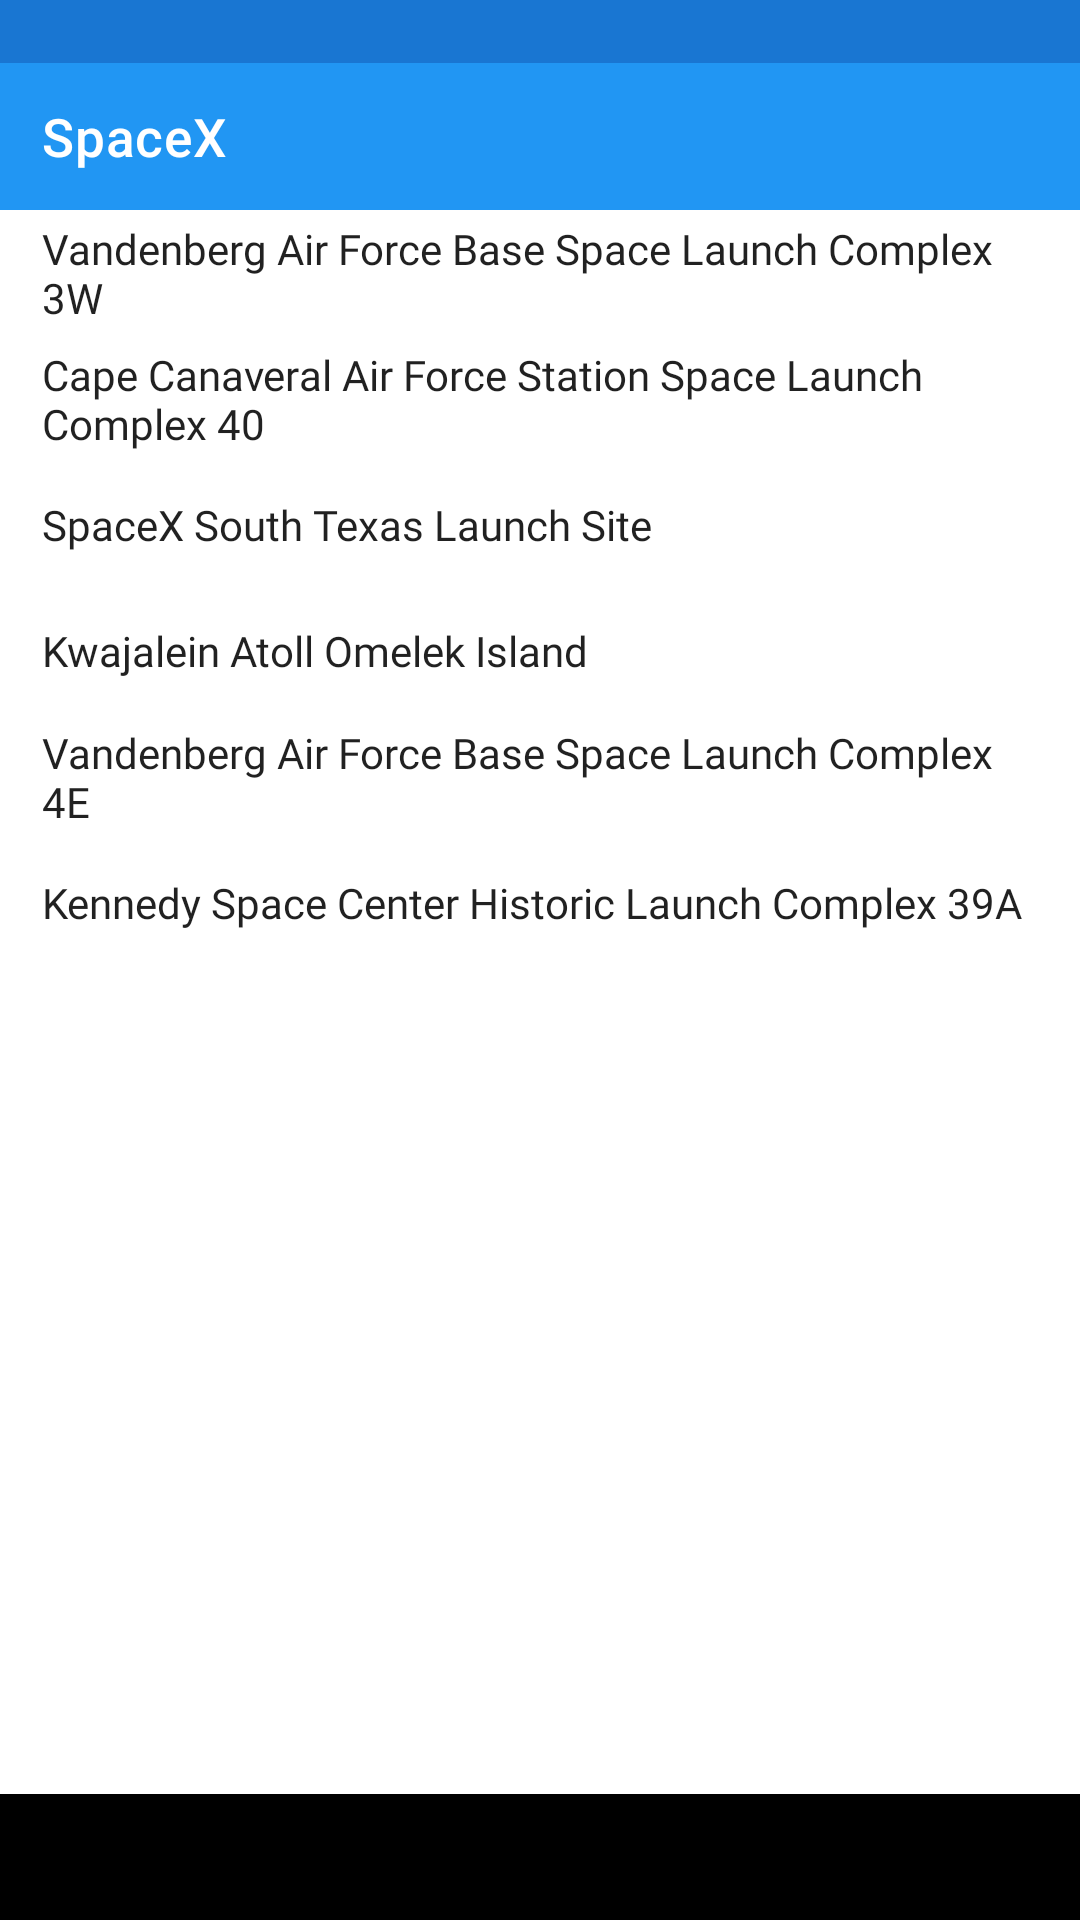
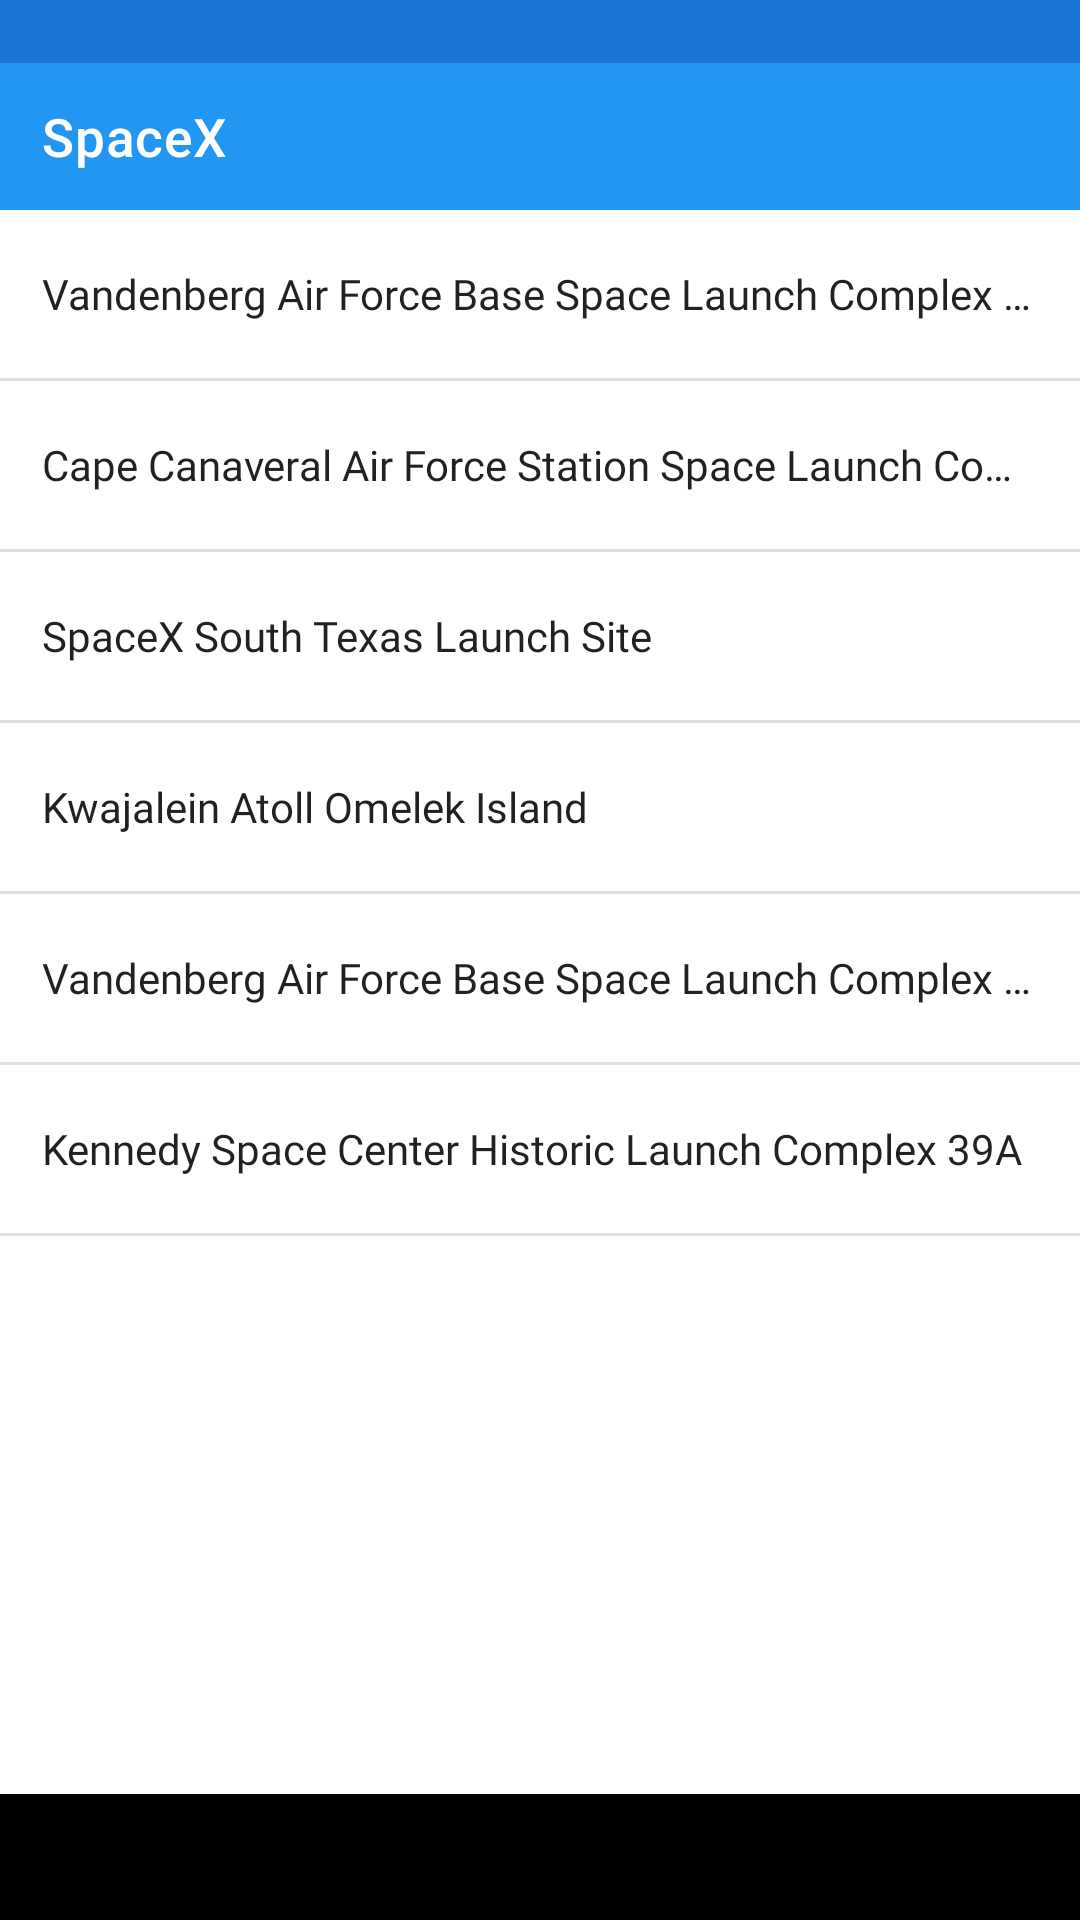
Improve list item layout UI
* single line with ellipsize
* divider
* ripple effect

diff --git a/app/src/main/java/pl/lgawin/demo/spacex/ui/list/LaunchpadListAdapter.kt b/app/src/main/java/pl/lgawin/demo/spacex/ui/list/LaunchpadListAdapter.kt
@@ -1,51 +1,16 @@
 package pl.lgawin.demo.spacex.ui.list
 
-import android.view.LayoutInflater
-import android.view.View
 import android.view.ViewGroup
-import android.widget.TextView
-import androidx.recyclerview.widget.DiffUtil
 import androidx.recyclerview.widget.ListAdapter
-import androidx.recyclerview.widget.RecyclerView
 import pl.lgawin.demo.spacex.domain.LaunchpadModel
 
 class LaunchpadListAdapter(private val onClick: (LaunchpadModel) -> Unit) :
-    ListAdapter<LaunchpadModel, SimpleLaunchpadViewHolder>(LaunchpadDiffCallback()) {
+    ListAdapter<LaunchpadModel, LaunchpadViewHolder>(LaunchpadModelDiffCallback()) {
 
-    override fun onCreateViewHolder(parent: ViewGroup, viewType: Int): SimpleLaunchpadViewHolder =
-        SimpleLaunchpadViewHolder.inflateIn(parent).apply {
-            clickListener = onClick
-        }
+    override fun onCreateViewHolder(parent: ViewGroup, viewType: Int): LaunchpadViewHolder =
+        LaunchpadViewHolder(parent).apply { clickListener = onClick }
 
-    override fun onBindViewHolder(holder: SimpleLaunchpadViewHolder, position: Int) {
+    override fun onBindViewHolder(holder: LaunchpadViewHolder, position: Int) {
         holder.bind(getItem(position))
-    }
-}
-
-class LaunchpadDiffCallback : DiffUtil.ItemCallback<LaunchpadModel>() {
-    override fun areItemsTheSame(oldItem: LaunchpadModel, newItem: LaunchpadModel): Boolean =
-        oldItem.id == newItem.id
-
-    override fun areContentsTheSame(oldItem: LaunchpadModel, newItem: LaunchpadModel): Boolean =
-        oldItem == newItem
-}
-
-class SimpleLaunchpadViewHolder(itemView: View) : RecyclerView.ViewHolder(itemView) {
-
-    var clickListener: (LaunchpadModel) -> Unit = {}
-
-    private val name = itemView.findViewById<TextView>(android.R.id.text1)
-
-    fun bind(item: LaunchpadModel) {
-        name.text = item.name
-        itemView.setOnClickListener { clickListener(item) }
-    }
-
-    companion object {
-
-        fun inflateIn(parent: ViewGroup) =
-            LayoutInflater.from(parent.context)
-                .inflate(android.R.layout.simple_list_item_1, parent, false)
-                .let { SimpleLaunchpadViewHolder(it) }
     }
 }

diff --git a/app/src/main/java/pl/lgawin/demo/spacex/ui/list/LaunchpadListFragment.kt b/app/src/main/java/pl/lgawin/demo/spacex/ui/list/LaunchpadListFragment.kt
@@ -9,6 +9,9 @@ import androidx.navigation.NavDirections
 import androidx.navigation.fragment.findNavController
 import org.koin.androidx.viewmodel.ext.android.viewModel
 import pl.lgawin.demo.spacex.databinding.FragmentLaunchpadListBinding
+import androidx.recyclerview.widget.DividerItemDecoration
+import androidx.recyclerview.widget.LinearLayoutManager
+
 
 class LaunchpadListFragment : Fragment() {
 
@@ -16,8 +19,9 @@ class LaunchpadListFragment : Fragment() {
     private val binding get() = _binding!!
 
     private val viewModel by viewModel<LaunchpadListViewModel>()
-    private val adapter = LaunchpadListAdapter {
-        LaunchpadListFragmentDirections.actionLaunchpadListToLaunchpadDetails(it.id, it.name).navigateTo()
+    private val launchpadListAdapter = LaunchpadListAdapter {
+        LaunchpadListFragmentDirections.actionLaunchpadListToLaunchpadDetails(it.id, it.name)
+            .navigateTo()
     }
 
     override fun onCreateView(
@@ -31,8 +35,13 @@ class LaunchpadListFragment : Fragment() {
 
     override fun onViewCreated(view: View, savedInstanceState: Bundle?) {
         super.onViewCreated(view, savedInstanceState)
-        binding.launchpadList.adapter = adapter
-        viewModel.launchpads.observe(viewLifecycleOwner, adapter::submitList)
+        with(binding.launchpadList) {
+            adapter = launchpadListAdapter
+            (layoutManager as? LinearLayoutManager)?.let {
+                addItemDecoration(DividerItemDecoration(context, it.orientation))
+            }
+        }
+        viewModel.launchpads.observe(viewLifecycleOwner, launchpadListAdapter::submitList)
     }
 
     override fun onDestroyView() {

diff --git a/app/src/main/java/pl/lgawin/demo/spacex/ui/list/LaunchpadViewHolder.kt b/app/src/main/java/pl/lgawin/demo/spacex/ui/list/LaunchpadViewHolder.kt
@@ -1,0 +1,27 @@
+package pl.lgawin.demo.spacex.ui.list
+
+import android.view.LayoutInflater
+import android.view.ViewGroup
+import androidx.recyclerview.widget.RecyclerView
+import pl.lgawin.demo.spacex.databinding.LaunchpadListItemBinding
+import pl.lgawin.demo.spacex.domain.LaunchpadModel
+
+class LaunchpadViewHolder(private val binding: LaunchpadListItemBinding) :
+    RecyclerView.ViewHolder(binding.root) {
+
+    var clickListener: (LaunchpadModel) -> Unit = {}
+
+    fun bind(item: LaunchpadModel) = with(binding) {
+        name.text = item.name
+        root.setOnClickListener { clickListener(item) }
+    }
+
+    companion object {
+
+        operator fun invoke(parent: ViewGroup): LaunchpadViewHolder {
+            val inflater = LayoutInflater.from(parent.context)
+            val binding = LaunchpadListItemBinding.inflate(inflater, parent, false)
+            return LaunchpadViewHolder(binding)
+        }
+    }
+}

diff --git a/app/src/androidTest/java/pl/lgawin/demo/spacex/ui/list/LaunchpadListFragmentTest.kt b/app/src/androidTest/java/pl/lgawin/demo/spacex/ui/list/LaunchpadListFragmentTest.kt
@@ -54,10 +54,11 @@ class LaunchpadListFragmentTest : ScreenshotTest, KoinTest {
     @Test
     fun navigateToDetails() {
         val navController = TestNavHostController(ApplicationProvider.getApplicationContext())
-        launchFragmentInContainer<LaunchpadListFragment>().onFragment {
-            navController.setGraph(R.navigation.nav_graph)
-            Navigation.setViewNavController(it.requireView(), navController)
-        }
+        launchFragmentInContainer<LaunchpadListFragment>(themeResId = R.style.Theme_SpaceX)
+            .onFragment {
+                navController.setGraph(R.navigation.nav_graph)
+                Navigation.setViewNavController(it.requireView(), navController)
+            }
         clickListItem(R.id.launchpad_list, 0)
         assertThat(navController.currentDestination?.id).isEqualTo(R.id.launchpad_details)
     }

diff --git a/app/src/main/java/pl/lgawin/demo/spacex/ui/list/LaunchpadModelDiffCallback.kt b/app/src/main/java/pl/lgawin/demo/spacex/ui/list/LaunchpadModelDiffCallback.kt
@@ -1,0 +1,12 @@
+package pl.lgawin.demo.spacex.ui.list
+
+import androidx.recyclerview.widget.DiffUtil
+import pl.lgawin.demo.spacex.domain.LaunchpadModel
+
+class LaunchpadModelDiffCallback : DiffUtil.ItemCallback<LaunchpadModel>() {
+    override fun areItemsTheSame(oldItem: LaunchpadModel, newItem: LaunchpadModel): Boolean =
+        oldItem.id == newItem.id
+
+    override fun areContentsTheSame(oldItem: LaunchpadModel, newItem: LaunchpadModel): Boolean =
+        oldItem == newItem
+}
